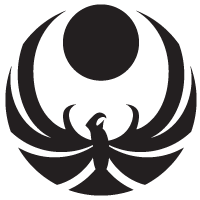
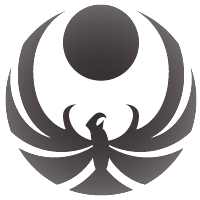
continued styling, fixed view width of lobby but still working on the prompts

diff --git a/app/components/Lobby.js b/app/components/Lobby.js
@@ -7,9 +7,8 @@ import { Route, Link, Redirect } from 'react-router-dom';
 const LobbyContainerStyling = {
 	height: '100vh',
 	width: '320px',
-	overflow: 'hidden',
 	margin: '0 auto',
-	
+	overflow: 'hidden'
 }
 
 class Lobby extends Component {
@@ -18,8 +17,7 @@ class Lobby extends Component {
 		this.state = {
 			fireRedirect: false,
 			messageState: 'none',
-			isReady: false,
-			
+			isReady: false
 		};
 
 		this.handleRedirect = this.handleRedirect.bind(this);
@@ -30,21 +28,21 @@ class Lobby extends Component {
 		let socket = this.props.socket;
 
 		socket.on("joinGame", this.handleRedirect);
-
 	}
 
+
 	handleRedirect(){
-		this.setState({fireRedirect: true})
+		this.setState({fireRedirect: true});
 	}
 
 	rulesButtonClicked(){
 		console.log("rulesButtonClicked");
-		this.setState({messageState: 'rules'})
+		this.setState({messageState: 'rules'});
 	}
 
 	originsButtonClicked(){
 		console.log("originsButtonClicked");
-		this.setState({messageState: 'origins'})
+		this.setState({messageState: 'origins'});
 	}
 
 	readyButtonClicked(){
@@ -59,33 +57,38 @@ class Lobby extends Component {
 		}
 	}
 
+
 	componentDidMount(){
 		console.log("Lobby has mounted.");
-		this.setState({messageState: 'welcome'})
+		this.setState({messageState: 'welcome'});
 	}
 
   render() {
   	if (this.state.fireRedirect === true) {
 			return <Redirect to='/testingPage' />
-
 		} else {
-    return (
-    	<div className="container-fluid">
-    		<div className="LobbyContainer row" style={LobbyContainerStyling}>
-    			<LobbyView
-    				rulesButtonClicked = {this.rulesButtonClicked}
-    				originsButtonClicked = {this.originsButtonClicked}
-    				readyButtonClicked = {this.readyButtonClicked}
-    				socket={this.props.socket}
-    			/>
-    			<LobbyChat socket={this.props.socket} />
-    			<MessageBox
-    				messageState={this.state.messageState}
-    			/>
-    		</div>
-    	</div>
-		)  
-  }}
+	    return (
+	    	<div className="container-fluid" >
+	    		<div className="row LobbyContainer" style={LobbyContainerStyling}>
+
+		    			<LobbyView
+		    				rulesButtonClicked = {this.rulesButtonClicked}
+		    				originsButtonClicked = {this.originsButtonClicked}
+		    				readyButtonClicked = {this.readyButtonClicked}
+		    				socket={this.props.socket}
+		    			/>
+		    			<MessageBox
+		    				messageState={this.state.messageState}
+		    			/>
+  			
+	    				<LobbyChat socket={this.props.socket} />
+
+	    		</div>
+	    		
+	    	</div>
+			)  
+  	}
+	}
 }
 
 export default Lobby;

diff --git a/app/components/panels/MessageBox.js b/app/components/panels/MessageBox.js
@@ -3,10 +3,9 @@ import Velocity from 'velocity-animate';
 
 const MessageBoxStyling = {
     position: 'absolute',
-    height: '20%',
-    width: '300px',
-    top: '30%',
-    left: '10%',
+    width: '56%',
+    top: '27%',
+    left: '23%',
     backgroundColor: 'rgba(0, 0, 20, .9)',
     border: '3px solid grey',
     outline: '3px solid black',
@@ -16,7 +15,6 @@ const MessageBoxStyling = {
     paddingLeft: '2%',
     paddingRight: '2%',
     opacity: '0',
-    margin: '0 auto',
 
 }
 
@@ -64,7 +62,7 @@ class MessageBox extends Component {
         switch(messageState){
             case 'welcome':
                 this.show();
-                return 'Welcome to the Cloak Inn Tavern';
+                return 'Welcome to the Cloak Inn Tavern!';
             break;
                 
             case 'rules':
@@ -74,7 +72,7 @@ class MessageBox extends Component {
             
             case 'origins':
                 this.show();
-                return 'Welcome to the Cloak Inn Tavern';
+                return 'Welcome to the Cloak Inn Tavern!';
             break;
             
             case 'ready':
@@ -93,9 +91,11 @@ class MessageBox extends Component {
         let Message = this.setMessage();
 
         return (
+          <div className="row">
             <div ref='MessageBox' className="col-xs-12" style={MessageBoxStyling} onClick={this.clicked}>
-               {Message}
-            </div>		
+              <div className="row">{Message}</div>
+            </div>
+          </div>
         )  
     }
 }

diff --git a/app/components/Landing.js b/app/components/Landing.js
@@ -9,12 +9,15 @@ const LandingPageContainer = {
 	backgroundSize: 'cover',
 	backgroundRepeat: 'no-repeat',
 	color: 'white',
-	border: '1px solid'
+	border: '1px solid',
+	textShadow: '2px 2px 7px black'
 }
 
 const LandingEmblem = {
 	margin: '0 auto',
-	width: '35%'
+	width: '35%',
+	borderRadius: '50%',
+	boxShadow: '0px 0px 40px white'
 }
 
 const GameDescriptionStyling = {
@@ -25,8 +28,16 @@ const InputStyling = {
 	color: 'black'
 }
 
+const ButtonStyling = {
+	fontWeight: 'bold'
+}
+
 const SignUpModalStyling = {
 	color: 'black'
+}
+
+const SignUpNowLink = {
+
 }
 
 
@@ -166,12 +177,12 @@ class Landing extends Component {
 								<div className="input-group">
 			          	<input type="text" className="form-control" placeholder="Nickname" value={this.state.value} onChange={this.handleChange} style={InputStyling}/>
 			       			<span className="input-group-btn">
-			       				<button type="submit" value="Submit" className="btn btn-default" style={InputStyling}>Go</button>
+			       				<button type="submit" value="Submit" className="btn btn-default" style={ButtonStyling}>Go</button>
 			       			</span>
 			       		</div>
 				      </form>
 
-				      <div className='col-xs-12' data-toggle="modal" data-target="#signUpModal">
+				      <div className='col-xs-12' data-toggle="modal" data-target="#signUpModal" >
 			        	<h1>Sign Up Now!</h1>
 			        </div>
 

diff --git a/app/components/panels/NavBar.js b/app/components/panels/NavBar.js
@@ -2,15 +2,16 @@ import React, { Component } from 'react';
 import { Redirect, NavLink } from 'react-router-dom';
 
 const NavBarStyling = {
-	backgroundColor: '#6f510c',
-
+	backgroundColor: 'black',
 }
 
 const BrandImg = {
 	position: 'relative',
 	top: '-13px',
 	left: '4px',
-	width: '45px'
+	width: '45px',
+	borderRadius: '50%',
+  boxShadow: '0px 0px 7px white'
 }
 
 const NavBarToggleButton = {
@@ -18,6 +19,10 @@ const NavBarToggleButton = {
 	right: '4px'
 }
 
+const NavBarLinkText = {
+	color: 'white',
+  fontSize: 'medium'
+}
 const SignInModalStyling = {
 	color: 'black'
 }
@@ -103,10 +108,10 @@ class NavBar extends Component {
 					    <div className="collapse navbar-collapse" id="bs-example-navbar-collapse-1">
 					      <ul className="nav navbar-nav navbar-right">
 					        <li className="">
-					          <NavLink to="/">Home<span className="sr-only">(current)</span></NavLink>
+					          <NavLink to="/" style={NavBarLinkText}>Home<span className="sr-only">(current)</span></NavLink>
 					        </li>
 					        <li>
-					        	<NavLink to="#" data-toggle="modal" data-target="#signInModal">Sign In</NavLink>
+					        	<NavLink to="#" data-toggle="modal" data-target="#signInModal" style={NavBarLinkText}>Sign In</NavLink>
 					        </li>
 
 					        <div className="modal fade" id="signInModal">

diff --git a/app/components/panels/ChatInput.js b/app/components/panels/ChatInput.js
@@ -57,18 +57,3 @@ class ChatInput extends Component {
 }
 
 export default ChatInput;
-
-// <form onSubmit={this.handleMessageSubmit} id="message-form" style={chatInput}>
-// 					<label>
-// 						Message:
-// 						<input
-// 							style={chatInput} 
-// 							type="text" 
-// 							placeholder="message" 
-// 							id="message" 
-// 							value={this.state.message}
-// 							onChange={this.handleMessageInputChange}
-// 						/>
-// 					</label>
-// 					<input type="submit" value="Submit" id="chat-button"  />
-// 			</form>

diff --git a/app/components/panels/panelsChildren/BartenderChoices.js b/app/components/panels/panelsChildren/BartenderChoices.js
@@ -69,7 +69,7 @@ class BartenderChoices extends Component {
 	}
 
 	changeReadyButton(){
-		ReadyButtonStyling={
+		ReadyButtonStyling = {
 			color: '#18ff35',
 			fontSize: '20px',
 			backgroundColor: 'green',

diff --git a/app/components/panels/LobbyView.js b/app/components/panels/LobbyView.js
@@ -5,7 +5,6 @@ import BartenderPortrait from './panelsChildren/BartenderPortrait';
 const LobbyViewStyling = {
     height: '60%',
     width: '100%',
-
 }
 
 class LobbyView extends Component {

diff --git a/app/components/SignIn.js b/app/components/SignIn.js
@@ -54,6 +54,7 @@ class SignIn extends Component {
 	    }
     });
   }
+}
 
 	render() {
 		if (this.state.fireRedirect === true) {
